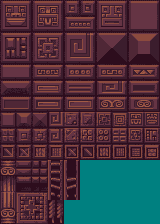
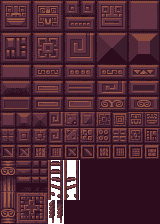
Levelbuilder MainMenu update

Changed region(s): [[0.2812, 0.6875, 1.0, 1.0]]

diff --git a/framework/src/name/panitz/game/example/simple/LevelBuilder.java b/framework/src/name/panitz/game/example/simple/LevelBuilder.java
@@ -1,8 +1,10 @@
 package name.panitz.game.example.simple;
 
 import name.panitz.game.framework.ImageObject;
+import name.panitz.game.framework.TextObject;
 import name.panitz.game.framework.Vertex;
 
+import java.awt.*;
 import java.util.List;
 
 public class LevelBuilder<I, S> {
@@ -14,13 +16,120 @@ public class LevelBuilder<I, S> {
 		border();
 		background();
 		if(levelID == 0) { // mainMenu
-			p.items.add(new Door<>(new Vertex(16*9,SimpleGame.gameSize.y*16-16-8-26),() -> p.resetLvl(1)));
-			p.items.add(new Door<>(new Vertex(16*11,SimpleGame.gameSize.y*16-16-8-26),() -> p.resetLvl(2)));
-			p.items.add(new Door<>(new Vertex(16*7,SimpleGame.gameSize.y*16-16-8-26),() -> p.resetLvl(3)));
-			p.items.add(new Door<>(new Vertex(16*13,SimpleGame.gameSize.y*16-16-8-26),() -> System.exit(0)));
+			for (int i = 0; i < 3; i++) {
+				p.background.add(new LevelBlock<>(2, new Vertex(1.5*16, 12.5*16 + 16 * (4-i)), 58-i));
+				p.background.add(new LevelBlock<>(2, new Vertex(19*16, 12.5*16 + 16 * (4-i)), 58-i));
+			}
+			for (int j = 0; j < 4; j++) {
+				p.background.add(new LevelBlock<>(2, new Vertex(13*16, 12.5*16 + 16 * (4-j)), 58-j));
+				p.blocks.add(new LevelBlock<>(0, new Vertex(7*16, 12.5*16 + 16 * (4-j)), 58-j));
+			}
+			int[] randLadders = {72,72,72,73,73,78,78,74,79,75};
+			for (int i = 0; i < 11; i++) {
+				p.climbables.add(new LevelBlock<>(0, new Vertex(88,272 - i*8),randLadders[(int) (Math.random() * randLadders.length)]));
+			}
+			p.blocks.add(new LevelBlock<>(0, new Vertex(112, 264), 58));
+			p.blocks.add(new LevelBlock<>(0, new Vertex(112, 248), 57));
+			p.blocks.add(new LevelBlock<>(0, new Vertex(112, 232), 56));
+			p.blocks.add(new LevelBlock<>(0, new Vertex(112, 216), 55));
+			p.blocks.add(new LevelBlock<>(0, new Vertex(152, 200), 11));
+			p.blocks.add(new LevelBlock<>(0, new Vertex(184, 200), 26));
+			p.blocks.add(new LevelBlock<>(0, new Vertex(136, 200), 26));
+			p.blocks.add(new LevelBlock<>(0, new Vertex(200, 200), 14));
+			p.blocks.add(new LevelBlock<>(0, new Vertex(104, 200), 14));
+			p.climbables.add(new LevelBlock<>(0, new Vertex(175, 216), 99));
+			p.climbables.add(new LevelBlock<>(0, new Vertex(153, 216), 99));
+			p.blocks.add(new LevelBlock<>(0, new Vertex(152, 224), 20));
+			p.blocks.add(new LevelBlock<>(0, new Vertex(424, 264), 58));
+			p.blocks.add(new LevelBlock<>(0, new Vertex(424, 248), 57));
+			p.blocks.add(new LevelBlock<>(0, new Vertex(424, 232), 56));
+			p.blocks.add(new LevelBlock<>(0, new Vertex(424, 216), 55));
+			p.blocks.add(new LevelBlock<>(0, new Vertex(416, 200), 23));
+			p.background.add(new LevelBlock<>(2, new Vertex(424, 184), 58));
+			p.background.add(new LevelBlock<>(2, new Vertex(424, 168), 57));
+			p.background.add(new LevelBlock<>(2, new Vertex(424, 152), 57));
+			p.background.add(new LevelBlock<>(2, new Vertex(424, 136), 57));
+			p.background.add(new LevelBlock<>(2, new Vertex(424, 120), 56));
+			p.background.add(new LevelBlock<>(2, new Vertex(424, 104), 55));
+			p.blocks.add(new LevelBlock<>(0, new Vertex(408, 88), 21));
+			p.blocks.add(new LevelBlock<>(0, new Vertex(456, 88), 17));
+			p.blocks.add(new LevelBlock<>(0, new Vertex(504, 88), 16));
+			p.blocks.add(new LevelBlock<>(0, new Vertex(440, 88), 32));
+			p.blocks.add(new LevelBlock<>(0, new Vertex(488, 88), 36));
+			p.blocks.add(new LevelBlock<>(0, new Vertex(536, 88), 35));
+			p.blocks.add(new LevelBlock<>(0, new Vertex(552, 88), 6));
+			p.blocks.add(new LevelBlock<>(0, new Vertex(520, 248), 1));
+			p.background.add(new LevelBlock<>(2, new Vertex(568, 120), 27));
+			p.climbables.add(new LevelBlock<>(0, new Vertex(480, 104), 99));
+			p.climbables.add(new LevelBlock<>(0, new Vertex(480, 120), 97));
+			p.climbables.add(new LevelBlock<>(0, new Vertex(480, 136), 97));
+			p.climbables.add(new LevelBlock<>(0, new Vertex(480, 152), 97));
+			p.climbables.add(new LevelBlock<>(0, new Vertex(480, 168), 98));
+			p.climbables.add(new LevelBlock<>(0, new Vertex(416.0,216.0), 99));
+			p.pushables.add(new PushableBlock<>(1, new Vertex(488.0,264.0), new Vertex(0, 0), 49));
+			p.items.add(new Door<>(new Vertex(9.4*16, 245.5),null));
+			p.otherObjs.add(new TextObject<>(new Vertex(475, 704),"Level 1","Times New Roman",20, new Color(0xE3A569), false));
 			p.player.getPos().moveTo(new Vertex(16*3+50,(SimpleGame.gameSize.y*16-16*2)*3-50));
 		} else if(levelID == 1) { // lv 1
+/*  LAST EXPORT
+p.blocks.add(new LevelBlock<>(0, new Vertex(112.0,264.0), 58));
+p.blocks.add(new LevelBlock<>(0, new Vertex(112.0,248.0), 57));
+p.blocks.add(new LevelBlock<>(0, new Vertex(112.0,232.0), 56));
+p.blocks.add(new LevelBlock<>(0, new Vertex(112.0,216.0), 55));
+p.blocks.add(new LevelBlock<>(0, new Vertex(112.0,264.0), 58));
+p.blocks.add(new LevelBlock<>(0, new Vertex(112.0,248.0), 57));
+p.blocks.add(new LevelBlock<>(0, new Vertex(112.0,232.0), 56));
+p.blocks.add(new LevelBlock<>(0, new Vertex(112.0,216.0), 55));
+p.blocks.add(new LevelBlock<>(0, new Vertex(152.0,200.0), 11));
+p.blocks.add(new LevelBlock<>(0, new Vertex(184.0,200.0), 26));
+p.blocks.add(new LevelBlock<>(0, new Vertex(136.0,200.0), 26));
+p.blocks.add(new LevelBlock<>(0, new Vertex(200.0,200.0), 14));
+p.blocks.add(new LevelBlock<>(0, new Vertex(104.0,200.0), 14));
+p.blocks.add(new LevelBlock<>(0, new Vertex(152.0,224.0), 20));
+p.blocks.add(new LevelBlock<>(0, new Vertex(424.0,264.0), 58));
+p.blocks.add(new LevelBlock<>(0, new Vertex(424.0,248.0), 57));
+p.blocks.add(new LevelBlock<>(0, new Vertex(424.0,232.0), 56));
+p.blocks.add(new LevelBlock<>(0, new Vertex(424.0,216.0), 55));
+p.blocks.add(new LevelBlock<>(0, new Vertex(416.0,200.0), 23));
+p.blocks.add(new LevelBlock<>(0, new Vertex(408.0,88.0), 21));
+p.blocks.add(new LevelBlock<>(0, new Vertex(456.0,88.0), 17));
+p.blocks.add(new LevelBlock<>(0, new Vertex(504.0,88.0), 16));
+p.blocks.add(new LevelBlock<>(0, new Vertex(440.0,88.0), 32));
+p.blocks.add(new LevelBlock<>(0, new Vertex(488.0,88.0), 36));
+p.blocks.add(new LevelBlock<>(0, new Vertex(536.0,88.0), 35));
+p.blocks.add(new LevelBlock<>(0, new Vertex(552.0,88.0), 6));
+p.blocks.add(new LevelBlock<>(0, new Vertex(520.0,248.0), 1));
+p.climbables.add(new LevelBlock<>(0, new Vertex(464.0,104.0), 99));
+p.blocks.add(new LevelBlock<>(0, new Vertex(464.0,120.0), 97));
+p.blocks.add(new LevelBlock<>(0, new Vertex(464.0,136.0), 97));
+p.climbables.add(new LevelBlock<>(0, new Vertex(464.0,152.0), 98));
+p.climbables.add(new LevelBlock<>(0, new Vertex(448.0,104.0), 99));
+p.blocks.add(new LevelBlock<>(0, new Vertex(448.0,120.0), 97));
+p.climbables.add(new LevelBlock<>(0, new Vertex(448.0,136.0), 98));
+p.blocks.add(new LevelBlock<>(0, new Vertex(360.0,136.0), 23));
+p.blocks.add(new LevelBlock<>(0, new Vertex(328.0,136.0), 24));
+p.blocks.add(new LevelBlock<>(0, new Vertex(296.0,136.0), 23));
+p.background.add(new LevelBlock<>(2, new Vertex(304.0,8.0), 99));
+p.background.add(new LevelBlock<>(2, new Vertex(304.0,24.0), 97));
+p.background.add(new LevelBlock<>(2, new Vertex(304.0,40.0), 97));
+p.background.add(new LevelBlock<>(2, new Vertex(304.0,56.0), 97));
+p.background.add(new LevelBlock<>(2, new Vertex(304.0,72.0), 97));
+p.background.add(new LevelBlock<>(2, new Vertex(304.0,88.0), 97));
+p.background.add(new LevelBlock<>(2, new Vertex(304.0,104.0), 97));
+p.background.add(new LevelBlock<>(2, new Vertex(304.0,120.0), 97));
+p.background.add(new LevelBlock<>(2, new Vertex(376.0,120.0), 97));
+p.background.add(new LevelBlock<>(2, new Vertex(376.0,104.0), 97));
+p.background.add(new LevelBlock<>(2, new Vertex(376.0,88.0), 97));
+p.background.add(new LevelBlock<>(2, new Vertex(376.0,72.0), 97));
+p.background.add(new LevelBlock<>(2, new Vertex(376.0,56.0), 97));
+p.background.add(new LevelBlock<>(2, new Vertex(376.0,40.0), 97));
+p.background.add(new LevelBlock<>(2, new Vertex(376.0,8.0), 99));
+p.background.add(new LevelBlock<>(2, new Vertex(376.0,24.0), 97));
+-1
 
+Process finished with exit code 0
+
+* */
 		} else { // rand
 			
 		}
@@ -50,47 +159,4 @@ public class LevelBuilder<I, S> {
 			gameX++;
 		}
 	}
-	/*public void makeLvl(int levelID, Player<I, S> p, List<ImageObject<I>> items, List<LevelBlock<I>> fg, List<LevelBlock<I>> cb, List<LevelBlock<I>> bg, List<PushableBlock<I>> pushables, Vertex size) {
-		// background
-		for (int gameX = 0; gameX < size.x; gameX++) {
-			for (int gameY = 0; gameY < size.y; gameY++) {
-				bg.add(new LevelBlock<>(2, new Vertex(gameX*16,gameY*16), new Vertex(0,0), (int) (Math.random() * 9)));
-				gameY++;
-			}
-			gameX++;
-		}
-		// foreground borders bottom & top
-		for (int gameX = 0; gameX < size.x; gameX++) {
-			fg.add(new LevelBlock<>(0, new Vertex(gameX*16, 0),new Vertex(0,0), 11));
-			fg.add(new LevelBlock<>(0, new Vertex(gameX*16, size.y*16-16),new Vertex(0,0), 11));
-			gameX++;
-		}
-		// corners
-		fg.add(new LevelBlock<>(0, new Vertex(0,16),new Vertex(0,0),55));
-		fg.add(new LevelBlock<>(0, new Vertex(size.x*16-16,16),new Vertex(0,0),55));
-		fg.add(new LevelBlock<>(0, new Vertex(0,size.y*16-16*2),new Vertex(0,0),58));
-		fg.add(new LevelBlock<>(0, new Vertex(size.x*16-16,size.y*16-16*2),new Vertex(0,0),58));
-		// borders l&r
-		for (int gameY = 2; gameY < size.y-2; gameY++) {
-			fg.add(new LevelBlock<>(0, new Vertex(0,gameY*16),new Vertex(0,0),57));
-			fg.add(new LevelBlock<>(0, new Vertex(size.x*16-16,gameY*16),new Vertex(0,0),57));
-		}
-		// blocks
-		fg.add(new LevelBlock<>(0, new Vertex(16*8,size.y*16-16-32-32-32),new Vertex(0,0),0));
-//		fg.add(new LevelBlock<>(0, new Vertex(size.x*10-16-16,size.y*16-16*2),new Vertex(0,0),17));
-		//fg.add(new LevelBlock<>(0, new Vertex(size.x*10-16-16,size.y*16-16*2),new Vertex(0,0),37));
-		//fg.add(new LevelBlock<>(0, new Vertex(size.x*10-16-16+16,size.y*16-16*2),new Vertex(0,0),38));
-//		fg.add(new LevelBlock<>(0, new Vertex(16*8,size.y*16-16-32-32),new Vertex(0,0),0));
-//		fg.add(new LevelBlock<>(0, new Vertex(16*8,size.y*16-16-32),new Vertex(0,0),0));
-//		items.add(new Skeleton<>(new Vertex(300,30),new Vertex(0,0)));
-		items.add(new Coin<>(new Vertex(16*8.5,30), new Vertex(0,0)));
-		items.add(new Door<>(new Vertex(16*9,size.y*16-16-8-26),new Vertex(0,0)));
-		pushables.add(new PushableBlock<>(0,new Vertex(16*24, 16*5), new Vertex(0,0)));
-		pushables.add(new PushableBlock<>(0,new Vertex(16*22, 16*5), new Vertex(0,0)));
-		for (int i = 0; i < 3*4; i++) {
-			cb.add(new LevelBlock<>(0, new Vertex(16*7,size.y*16-16-8*i-8), new Vertex(0,0),71));
-		}
-		// player placing
-		p.getPos().moveTo(new Vertex(16*3+50,(size.y*16-16*2)*3-50));
-	}*/
 }

diff --git a/framework/src/name/panitz/game/example/simple/SimpleGame.java b/framework/src/name/panitz/game/example/simple/SimpleGame.java
@@ -16,7 +16,7 @@ public class SimpleGame<I, S> extends AbstractGame<I, S> {
 	// Objektlisten
 	int levelbuilder = -1;
 	List<LevelBlock<I>> background = new ArrayList<>(); // no collisioncheck
-	List<GameObject<I>> fixedFg = new ArrayList<>(); // fixed front elements
+	List<GameObject<I>> otherObjs = new ArrayList<>(); // front elements
 	List<LevelBlock<I>> blocks = new ArrayList<>(); // collisioncheck
 	List<LevelBlock<I>> climbables = new ArrayList<>(); // ladders & ropes
 	List<ImageObject<I>> items = new ArrayList<>(); // collisioncheck
@@ -36,18 +36,17 @@ public class SimpleGame<I, S> extends AbstractGame<I, S> {
 		player.setParent(this);
 		buttons.add(new Button("Reset Level", () -> resetLvl(0)));
 		buttons.add(new Button("toggle Sound", this::toggleMute));
-		buttons.add(new Button("Start LevelBuilder", () -> levelbuilder++));
+		buttons.add(new Button("toggle LevelBuilder", () -> levelbuilder = (levelbuilder==-1)?blocks.size()-1:-1));
 		resetLvl(0);
 		// setup
-		//fixedFg.add(new TextObject<>(new Vertex(0,29), "███▋", "DejaVu Sans Mono", 42, new Color(0xE3E2E1)));
-		//fixedFg.add(coinDisplay);
+		otherObjs.add(new TextObject<>(new Vertex(0,29), "███▋", "DejaVu Sans Mono", 42, new Color(0xE3E2E1)));
+		otherObjs.add(coinDisplay);
 		getGOss().add(background);
-		getGOss().add(climbables);
 		getGOss().add(climbables);
 		getGOss().add(blocks);
 		getGOss().add(items);
 		getGOss().add(pushables);
-		getGOss().add(fixedFg);
+		getGOss().add(otherObjs);
 	}
 	public void toggleMute() {
 		muteSound = !muteSound;
@@ -126,7 +125,7 @@ public class SimpleGame<I, S> extends AbstractGame<I, S> {
 					toDel.add(item);
 				}
 			} else if(item instanceof Door) {
-				if(item.getCurrentAnimationFrame() == 3 && player.getObjectCenter().dist(item.getObjectCenter()) < 28) {
+				if(item.getCurrentAnimationFrame() == 3 && player.getObjectCenter().dist(item.getObjectCenter()) < 30) {
 					player.setSpeed(0);
 					((Door<I>) item).enter();
 				}
@@ -137,7 +136,7 @@ public class SimpleGame<I, S> extends AbstractGame<I, S> {
 		boolean finalDoorsOpen = doorsOpen;
 		items.forEach(i -> {
 			if(i instanceof Door){
-				((Door<I>) i).setOpen(finalDoorsOpen);
+				//((Door<I>) i).setOpen(finalDoorsOpen);
 			}
 		});
 		items.removeAll(toDel);
@@ -248,9 +247,10 @@ public class SimpleGame<I, S> extends AbstractGame<I, S> {
 		go.setCanClimbDown(-1);
 		for (LevelBlock<I> c: climbables) {
 			if(go.touches(c) || go.standingOnTopOf(c)) {
-				if(c.getCurrentAnimationFrame() < 98) {// rope
+				go.setCanClimbUp(1);
+				/*if(c.getCurrentAnimationFrame() < 97) {// rope
 					go.setCanClimbUp(1);
-				}
+				}*/ // climb any
 				go.setCanClimbDown(1);
 				entityHasYCollision = true;
 			}
@@ -353,15 +353,15 @@ public class SimpleGame<I, S> extends AbstractGame<I, S> {
 						blocks.get(levelbuilder).getPos().move(new Vertex(0,-8*3));
 						break;
 					case VK_Y: // generate new fg
-						blocks.add(new LevelBlock<>(0, new Vertex(10*16,10*16),levelbuilder < blocks.size() ? blocks.get(levelbuilder).getCurrentAnimationFrame() : 0));
+						blocks.add(new LevelBlock<>(0, blocks.get(blocks.size() - 1).getPos().mult(1 / 3.0),levelbuilder < blocks.size() ? blocks.get(levelbuilder).getCurrentAnimationFrame() : 0));
 						levelbuilder = blocks.size()-1;
 						break;
 					case VK_X: // generate fg2
-						blocks.add(new LevelBlock<>(1, new Vertex(10*16,10*16),levelbuilder < blocks.size() ? blocks.get(levelbuilder).getCurrentAnimationFrame() : 0));
+						blocks.add(new LevelBlock<>(1, blocks.get(blocks.size() - 1).getPos().mult(1 / 3.0),levelbuilder < blocks.size() ? blocks.get(levelbuilder).getCurrentAnimationFrame() : 0));
 						levelbuilder = blocks.size()-1;
 						break;
 					case VK_C: // generate new bg
-						background.add(new LevelBlock<>(2, new Vertex(10*16,10*16),levelbuilder < blocks.size() ? blocks.get(levelbuilder).getCurrentAnimationFrame() : 0));
+						blocks.add(new LevelBlock<>(2, blocks.get(blocks.size() - 1).getPos().mult(1 / 3.0),levelbuilder < blocks.size() ? blocks.get(levelbuilder).getCurrentAnimationFrame() : 0));
 						levelbuilder = blocks.size()-1;
 						break;
 					case NUM_3: // prev Frame
@@ -381,17 +381,32 @@ public class SimpleGame<I, S> extends AbstractGame<I, S> {
 						levelbuilder--;
 						break;
 					case NUM_5: // export
+						int counter = 0;
+						// List<LevelBlock<I>> allBlocks
+						// TODO summarize
 						for (LevelBlock<I> lb:blocks) {
-							if(lb.getCurrentAnimationFrame() > 81 && lb.getCurrentAnimationFrame() < 96) continue;
-							System.out.println("p.blocks.add(new LevelBlock<>(0, new Vertex("
-									+ lb.getPos().x + "," + lb.getPos().y + "), " + lb.getCurrentAnimationFrame() + "));");
+							counter++;
+							if(counter <= 216) continue; //border skip
+							if((lb.gameObjectId-10) == 2){
+								System.out.println("p.background.add(new LevelBlock<>(" + (lb.gameObjectId-10) + ", new Vertex("
+										+ lb.getPos().x/3 + "," + lb.getPos().y/3 + "), " + lb.getCurrentAnimationFrame() + "));");
+							}else if(lb.getCurrentAnimationFrame() >= 71 && lb.getCurrentAnimationFrame() <= 80 || lb.getCurrentAnimationFrame() >= 98){
+								System.out.println("p.climbables.add(new LevelBlock<>(" + (lb.gameObjectId-10) + ", new Vertex("
+										+ lb.getPos().x/3 + "," + lb.getPos().y/3 + "), " + lb.getCurrentAnimationFrame() + "));");
+							}else if(lb.getCurrentAnimationFrame() >= 45 && lb.getCurrentAnimationFrame() <= 54){
+								System.out.println("p.pushables.add(new PushableBlock<>(" + (lb.gameObjectId-10) + ", new Vertex("
+										+ lb.getPos().x/3 + "," + lb.getPos().y/3 + "), new Vertex(0, 0), " + lb.getCurrentAnimationFrame() + "));");
+							}else {
+								System.out.println("p.blocks.add(new LevelBlock<>(" + (lb.gameObjectId - 10) + ", new Vertex("
+										+ lb.getPos().x / 3 + "," + lb.getPos().y / 3 + "), " + lb.getCurrentAnimationFrame() + "));");
+							}
 						}
-						for (LevelBlock<I> lb:background) {
+						/*for (LevelBlock<I> lb:background) {
 							if(lb.getCurrentAnimationFrame() == 101) continue;
 							System.out.println("p.background.add(new LevelBlock<>(2, new Vertex("
 									+ lb.getPos().x + "," + lb.getPos().y + "), " + lb.getCurrentAnimationFrame() + "));");
-						}
-						System.out.println("p.player.getPos().moveTo(new Vertex(" + player.getPos().x + "," + player.getPos().y + "));");
+						}*/
+						//System.out.println("p.player.getPos().moveTo(new Vertex(" + player.getPos().x + "," + player.getPos().y + "));");
 						levelbuilder = -1;
 						break;
 					case DOWN_ARROW:

diff --git a/framework/src/name/panitz/game/framework/TextObject.java b/framework/src/name/panitz/game/framework/TextObject.java
@@ -1,5 +1,7 @@
 package name.panitz.game.framework;
 
+import name.panitz.game.example.simple.SimpleGame;
+
 import java.awt.*;
 
 public class TextObject<I> extends AbstractGameObject<I> {
@@ -10,6 +12,7 @@ public class TextObject<I> extends AbstractGameObject<I> {
 	public String fontName;
 	public int fontSize;
 	public Color color;
+	private boolean fixed = true;
 	public TextObject(Vertex position, String text, String fntName, int fntSize, Color color) {
 		super(0, 0, position);
 		this.text = text;
@@ -17,10 +20,16 @@ public class TextObject<I> extends AbstractGameObject<I> {
 		this.fontName = fntName;
 		this.fontSize = fntSize;
 	}
+	public TextObject(Vertex position, String text, String fntName, int fntSize, Color color, boolean fixed) {
+		this(position, text, fntName, fntSize, color);
+		this.fixed = fixed;
+	}
 	@Override
 	public void paintTo(GraphicsTool<I> g) {
-		g.drawString(getPos().x, getPos().y, fontSize, fontName, text, color);
-		//g.drawString(getPos().x + SimpleGame.currentVP.getV1().x, getPos().y + SimpleGame.currentVP.getV1().x, fontSize, fontName, text);
+		if(fixed)
+			g.drawString(getPos().x, getPos().y, fontSize, fontName, text, color);
+		else
+			g.drawString(getPos().x + SimpleGame.currentVP.getV1().x, getPos().y + SimpleGame.currentVP.getV1().y, fontSize, fontName, text, color);
 	}
 }
 

diff --git a/framework/src/name/panitz/game/example/simple/PushableBlock.java b/framework/src/name/panitz/game/example/simple/PushableBlock.java
@@ -4,11 +4,12 @@ import name.panitz.game.framework.FallingImage;
 import name.panitz.game.framework.Vertex;
 
 public class PushableBlock<I> extends FallingImage<I> {
-	PushableBlock(int layer, Vertex pos, Vertex motion, double objZoom) {
-		super(10+layer, pos, motion, objZoom, 46);
+	PushableBlock(int layer, Vertex pos, Vertex motion, double objZoom, int startFrame) {
+		super(10+layer, pos, motion, objZoom, startFrame);
+
 	}
-	PushableBlock(int layer, Vertex pos, Vertex motion) {
-		this(layer, pos, motion,3);
+	PushableBlock(int layer, Vertex pos, Vertex motion, int startFrame) {
+		this(layer, pos, motion,3, startFrame);
 	}
 	@Override
 	public void animate() {

diff --git a/framework/src/name/panitz/game/example/simple/SpriteGrid.java b/framework/src/name/panitz/game/example/simple/SpriteGrid.java
@@ -54,11 +54,11 @@ public class SpriteGrid {
 					}
 				}
 				// ropes
-				for (int i = 0; i < 2; i++) {
-					for (int j = 0; j < 2; j++) {
-						add(new Rect(16+32+i*8, 64+48+48+40+16*j,16+32+8*(i+1), 64+48+48+40+16*(j+1)));
-					}
-				}
+				add(new Rect(16+32+1, 64+48+48+40,16+32+1+6, 64+48+48+40+16));
+				add(new Rect(16+32+1, 64+48+48+40+16,16+32+1+6, 64+48+48+40+16*2));
+				add(new Rect(16+32+9, 64+48+48+40,16+32+9+6, 64+48+48+40+16*2));
+				add(new Rect(16+32+9, 64+48+48+40+16,16+32+9+6, 64+48+48+40+16));
+				// void
 				add(new Rect(80,160,112,192));
 			}}
 	);

diff --git a/framework/src/name/panitz/game/framework/ImageObject.java b/framework/src/name/panitz/game/framework/ImageObject.java
@@ -10,7 +10,7 @@ import static name.panitz.game.example.simple.SpriteGrid.*;
 public class ImageObject<I> extends AbstractGameObject<I> {
 	protected int animationSpeed = 4; // higher is slower, -1 = off
 	String imageFileName;
-	int gameObjectId;
+	public int gameObjectId;
 	I img;
 	protected Rect cutout;
 	protected Vertex cutoutOffset = new Vertex(0,0); // offset from image to actual hitbox
